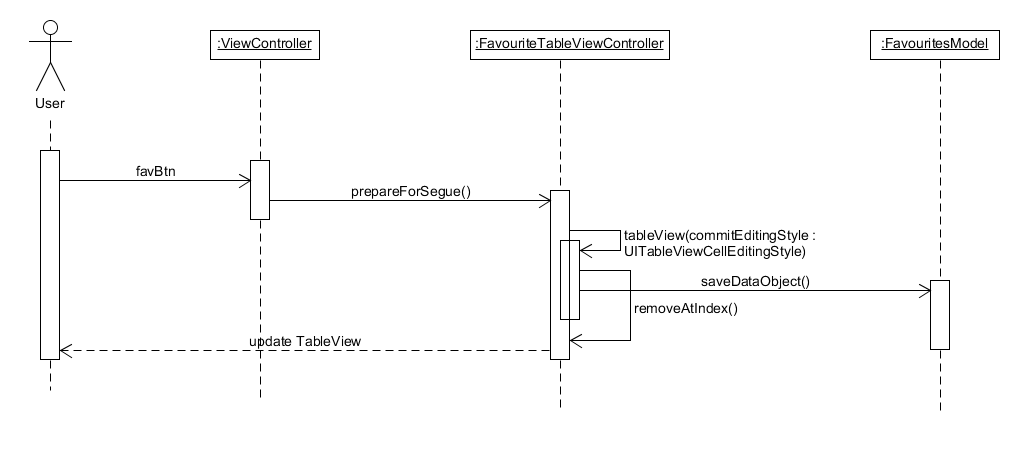
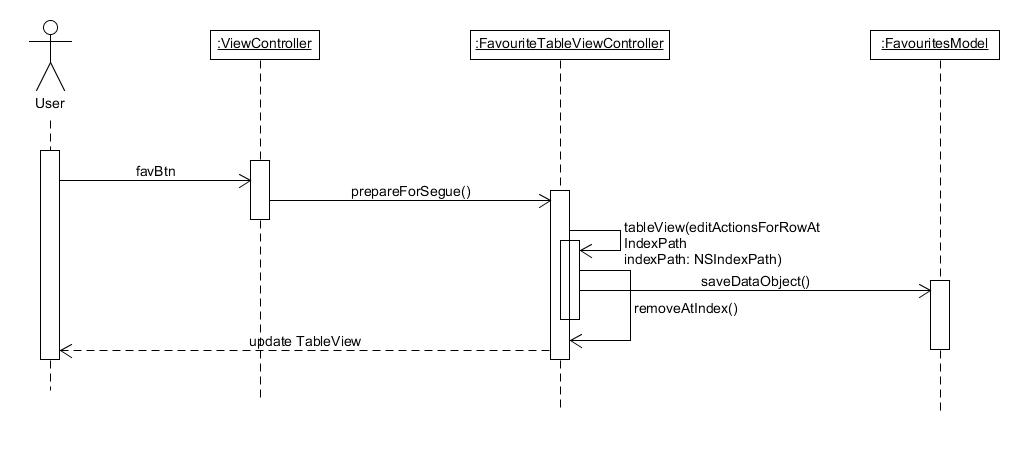
Lesezeichen bearbeiten

Changed region(s): [[0.6078, 0.4978, 0.8206, 0.5911]]

diff --git a/LaTeX/lesezeichen.tex b/LaTeX/lesezeichen.tex
@@ -1,23 +1,3 @@
-\documentclass[a4paper,10pt]{article}
-%\documentclass[a4paper,10pt]{scrartcl}
-
-\usepackage[utf8]{inputenc}
-\usepackage{multicol}
-\usepackage{multido}
-\usepackage{hyperref}
-\usepackage{graphicx}
-
-\graphicspath{ {Pics/} }
-\title{Lesezeichen}
-\author{pbuettner}
-\date{18.11.2015}
-
-\pdfinfo{%
-  /Title    (Lesezeichen)
-  /Author   (pbuettner)
-  /Creator  (pbuettner)
-}
-
 \begin{document}
 \maketitle
 \tableofcontents
@@ -28,14 +8,19 @@
 Nachdem der User auf den Plusbutton zum Hinzufügen eines neuen Lesezeichens klickt, wird im ViewController die IBAction des Buttons aufgerufen. Hier wird die enterAction des UIAlertControllers aufgerufen. Nun kann der Nutzer den gewünschten Titel des Lesezeichens eingeben. Die URL wird automatisch übernommen. Nachdem man auf Enter zum Bestätigen klickt, wird ein neues Objekt des FavouriteModels erzeugt. Anschließend wird das erstellte Lesezeichen in das Model geschrieben und persistent gespeichert.
 \pagebreak
 
+\section{Lesezeichen bearbeiten}
+\includegraphics[scale=0.40]{sequEditFavourites.png}
+Nachdem der User auf das Lesezeichensymbol zum Anzeigen der gespeicherten Lesezeichen klickt, wird im ViewController die prepareForSegue-Methode aufgerufen. Nun wird der FavouriteTableViewController geladen. Hier wird die Methode editActionsForRowAtIndexPath indexPath: NSIndexPath) aufgerufen. Nachdem man den entsprechenden Eintrag in der TableView auswählt, öffnet sich ein AlertFenster. Hier ist es möglich, den Titel zu ändern. Nach dem Bestätigen wird dies persistent gespeichert und die TableView aktualisiert.
+\pagebreak
+
 \section{Lesezeichen anzeigen}
 \includegraphics[scale=0.45]{sequShowFavourites.png}
-Nachdem der User auf das Lesezeichensymbol zum Anzeigen eines neuen Lesezeichens klickt, wird im ViewController die prepareForSegue-Methode aufgerufen. Nun wird der FavouriteTableViewController geladen. Hier wird die Methode tableView(didSelectRowAtIndexPath indexPath: NSIndexPath) augerufen. Hier wird überprüft, ob der Nutzer auf eine Zelle der TableView geklickt hat. Sobald man auf eine Zelle klickt, wird die entsprechende URL im FavouriteModel gespeichert und die Delegate-Methode receiveInfo() im ViewController aufgerufen. Dort wird die Methode loadURL mit der entsprechenden URL aufgerufen. Anschließend gelangt der Nutzer zum ViewController und die URL wird in der WebView angezeigt.
+Nachdem der User auf das Lesezeichensymbol zum Anzeigen der gespeicherten Lesezeichen klickt, wird im ViewController die prepareForSegue-Methode aufgerufen. Nun wird der FavouriteTableViewController geladen. Hier wird die Methode tableView(didSelectRowAtIndexPath indexPath: NSIndexPath) augerufen. Hier wird überprüft, ob der Nutzer auf eine Zelle der TableView geklickt hat. Sobald man auf eine Zelle klickt, wird die entsprechende URL im FavouriteModel gespeichert und die Delegate-Methode receiveInfo() im ViewController aufgerufen. Dort wird die Methode loadURL mit der entsprechenden URL aufgerufen. Anschließend gelangt der Nutzer zum ViewController und die URL wird in der WebView angezeigt.
 \pagebreak
 
 \section{Lesezeichen löschen}
 \includegraphics[scale=0.45]{sequDeleteFavourites.png}
-Nachdem der User auf das Lesezeichensymbol zum Anzeigen eines neuen Lesezeichen klickt, wird im ViewController die prepareForSegue-Methode aufgerufen. Nun wird der FavouriteTableViewController geladen. Hier wird die Methode tableView(commitEditingStyle editingStyle: UITableViewCellEditingStyle) aufgerufen. Hier wird der ausgewählte Eintrag gelöscht. Dies wird persistent gespeichert und die TableView aktualisiert.
+Nachdem der User auf das Lesezeichensymbol zum Anzeigen der gespeicherten Lesezeichen klickt, wird im ViewController die prepareForSegue-Methode aufgerufen. Nun wird der FavouriteTableViewController geladen. Hier wird die Methode editActionsForRowAtIndexPath indexPath: NSIndexPath) aufgerufen. Hier wird der ausgewählte Eintrag gelöscht. Dies wird persistent gespeichert und die TableView aktualisiert.
 \pagebreak
 
 \end{document}
